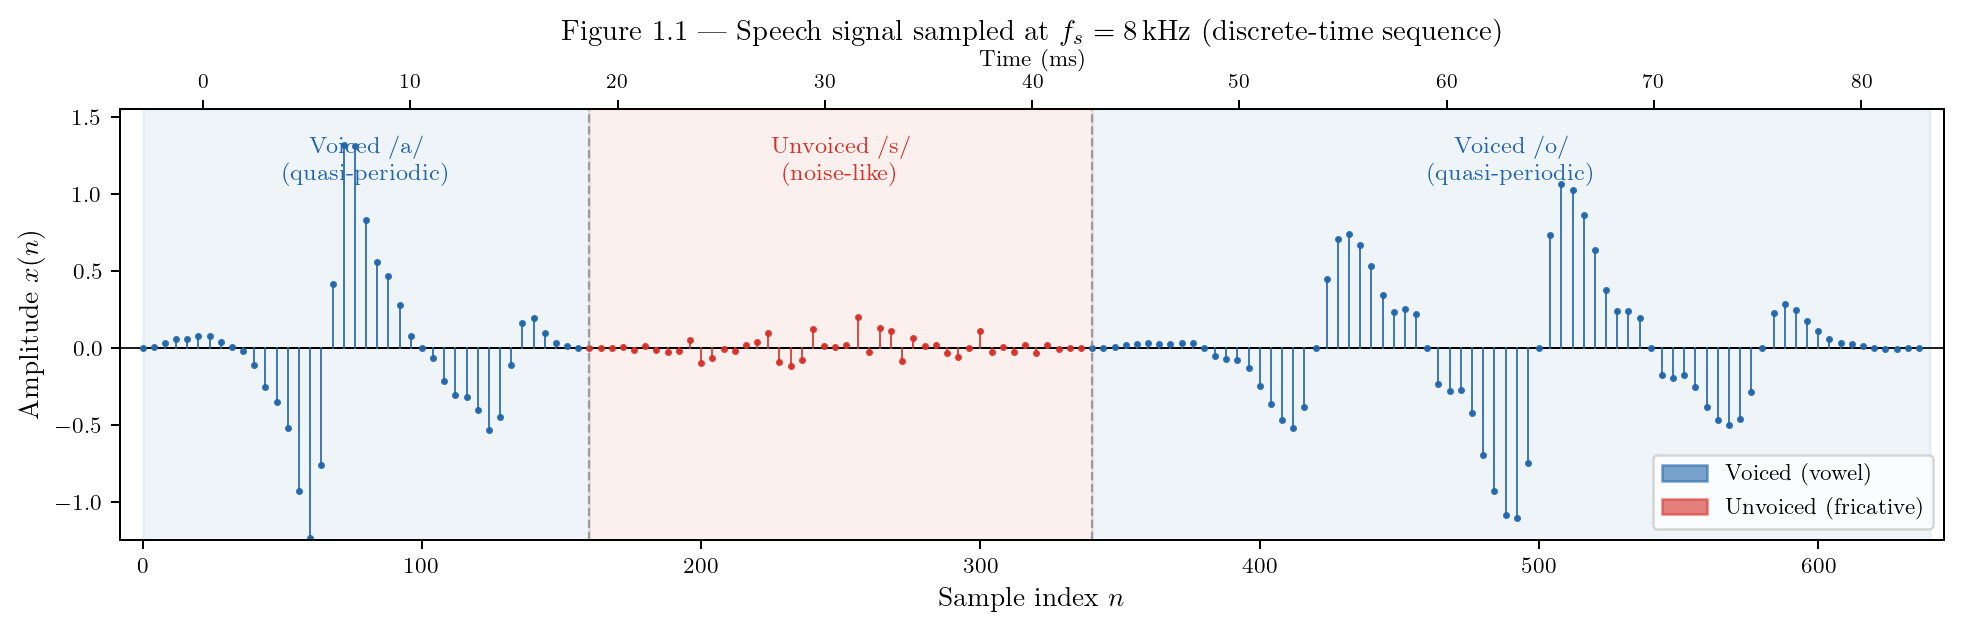
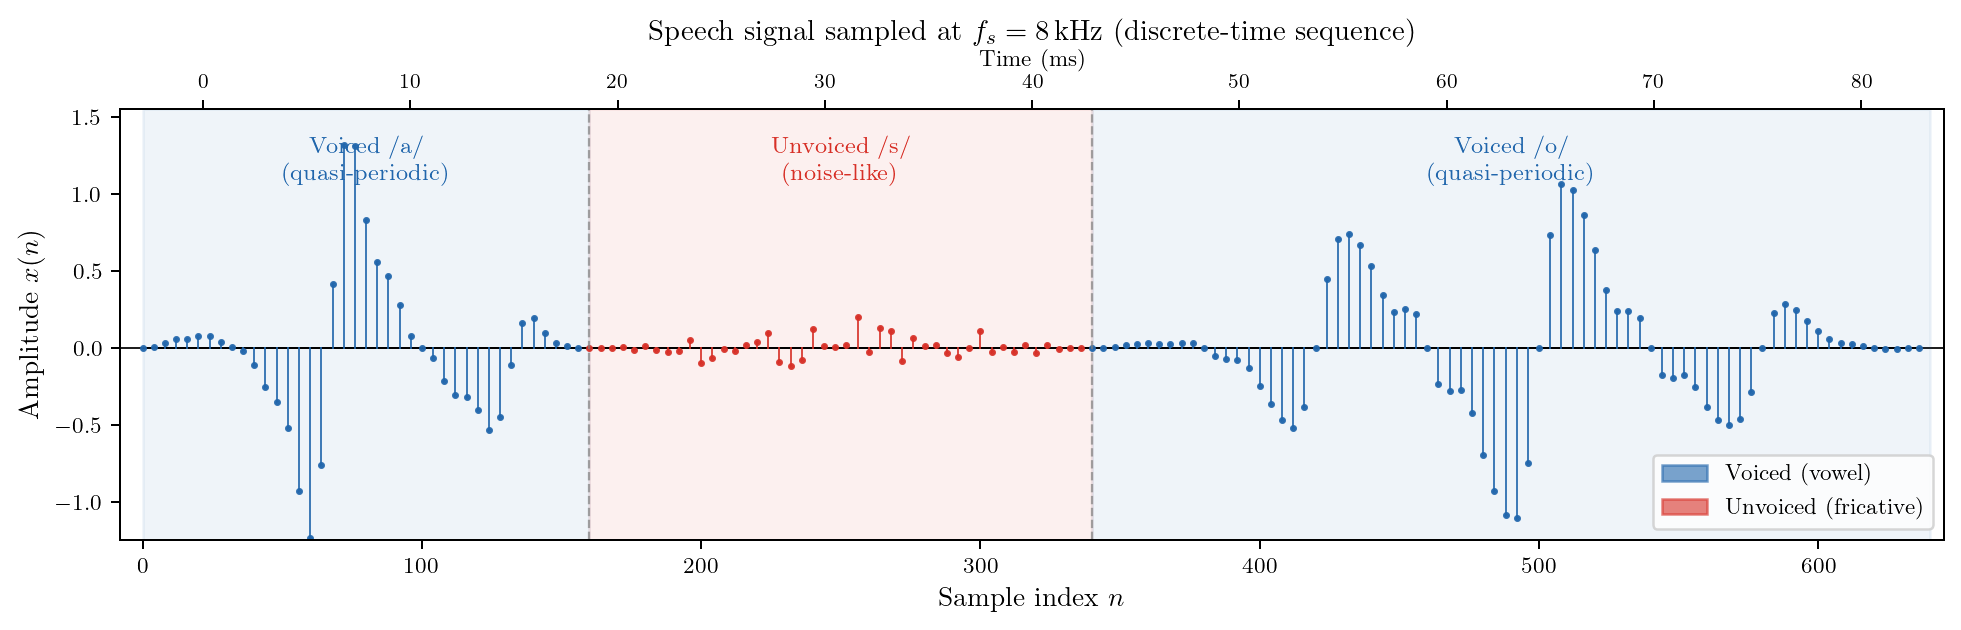
update

Changed region(s): [[0.28, 0.0302, 0.7777, 0.0905]]

diff --git a/CourseADSP2026/Python/fig 1_1.py b/CourseADSP2026/Python/fig 1_1.py
@@ -102,7 +102,7 @@ ax.text((seg2_end+seg3_end)/2, ymax, 'Voiced /o/\n(quasi-periodic)', color='#216
 # ── Axes labels & ticks ───────────────────────────────────────────────────────
 ax.set_xlabel(r'Sample index  $n$', fontsize=11)
 ax.set_ylabel(r'Amplitude  $x(n)$', fontsize=11)
-ax.set_title(r'Figure 1.1 — Speech signal sampled at $f_s = 8\,\mathrm{kHz}$  '
+ax.set_title(r'Speech signal sampled at $f_s = 8\,\mathrm{kHz}$  '
              r'(discrete-time sequence)',
              fontsize=11.5, pad=28)
 